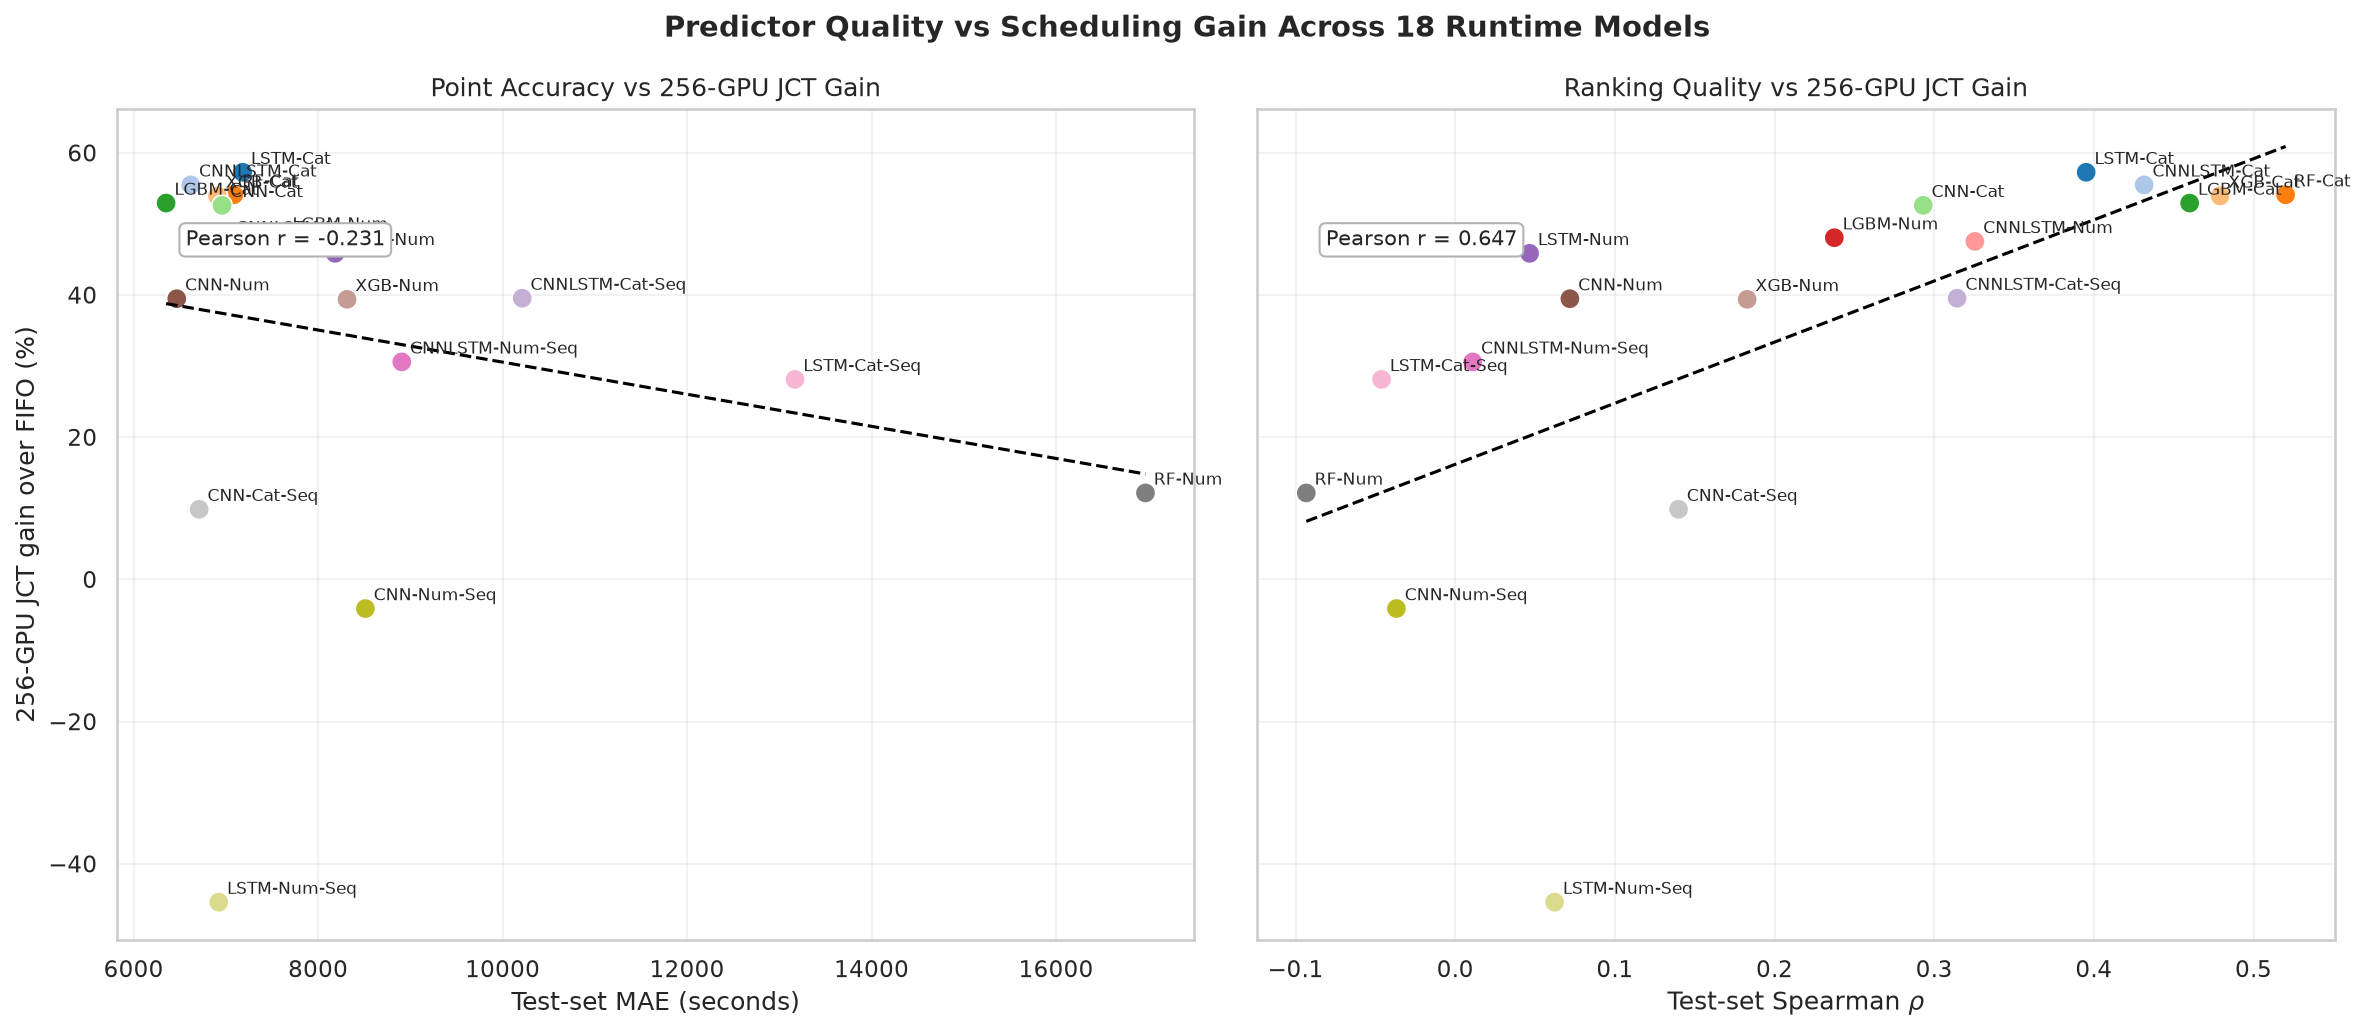
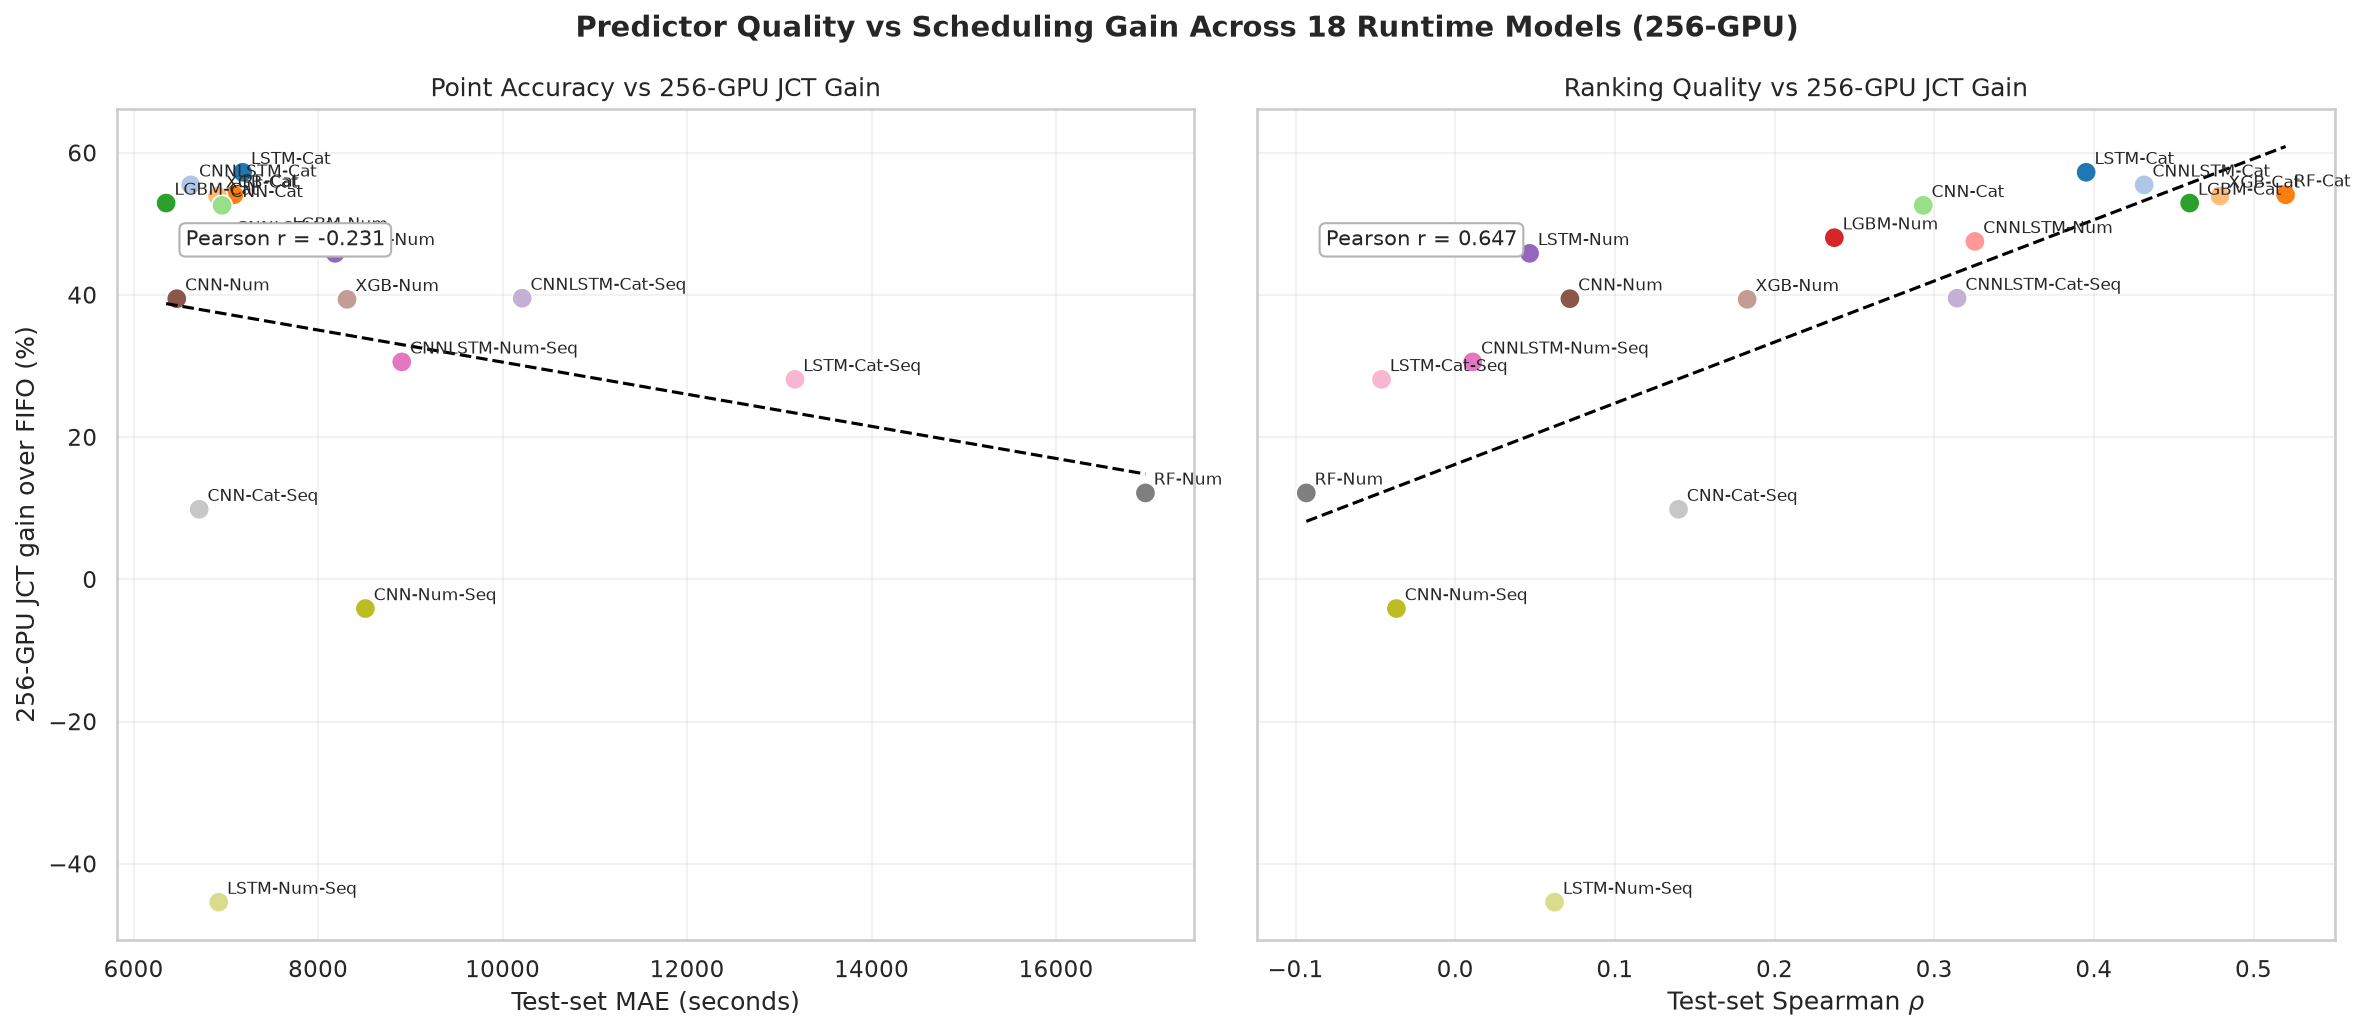
Add 32-GPU Spearman vs JCT gain figure generation

Changed region(s): [[0.2469, 0.0, 0.7717, 0.0621]]

diff --git a/scripts/generate_rank_correlation_figure.py b/scripts/generate_rank_correlation_figure.py
@@ -1,5 +1,5 @@
 #!/usr/bin/env python3
-"""Generate the MAE/Spearman vs 256-GPU JCT gain figure for all 18 predictors."""
+"""Generate the MAE/Spearman vs JCT gain figures for all 18 predictors (32-GPU and 256-GPU)."""
 
 from __future__ import annotations
 
@@ -304,12 +304,21 @@ def _build_analysis_frame() -> pd.DataFrame:
     return analysis_df
 
 
-def _draw_panel(ax: plt.Axes, df: pd.DataFrame, *, x_col: str, xlabel: str, title: str) -> None:
+def _draw_panel(
+    ax: plt.Axes,
+    df: pd.DataFrame,
+    *,
+    x_col: str,
+    xlabel: str,
+    title: str,
+    y_col: str = "jct_gain_256",
+    ylabel: str = "256-GPU JCT gain over FIFO (%)",
+) -> None:
     """Draw one scatter panel with fitted line and Pearson correlation text."""
     sns.scatterplot(
         data=df,
         x=x_col,
-        y="jct_gain_256",
+        y=y_col,
         hue="policy",
         palette="tab20",
         s=95,
@@ -317,23 +326,23 @@ def _draw_panel(ax: plt.Axes, df: pd.DataFrame, *, x_col: str, xlabel: str, titl
         ax=ax,
     )
 
-    slope, intercept = np.polyfit(df[x_col], df["jct_gain_256"], deg=1)
+    slope, intercept = np.polyfit(df[x_col], df[y_col], deg=1)
     x_values = np.linspace(df[x_col].min(), df[x_col].max(), 200)
     y_values = slope * x_values + intercept
-    corr_value, _ = pearsonr(df[x_col], df["jct_gain_256"])
+    corr_value, _ = pearsonr(df[x_col], df[y_col])
 
     ax.plot(x_values, y_values, color="black", linestyle="--", linewidth=1.5)
     ax.set_xlabel(xlabel)
-    ax.set_ylabel("256-GPU JCT gain over FIFO (%)")
+    ax.set_ylabel(ylabel)
     ax.set_title(title)
     ax.grid(alpha=0.25)
 
     x_span = df[x_col].max() - df[x_col].min()
-    y_span = df["jct_gain_256"].max() - df["jct_gain_256"].min()
+    y_span = df[y_col].max() - df[y_col].min()
     for row in df.itertuples(index=False):
         ax.annotate(
             row.model,
-            (getattr(row, x_col), row.jct_gain_256),
+            (getattr(row, x_col), getattr(row, y_col)),
             xytext=(4, 4),
             textcoords="offset points",
             fontsize=8,
@@ -341,47 +350,79 @@ def _draw_panel(ax: plt.Axes, df: pd.DataFrame, *, x_col: str, xlabel: str, titl
 
     ax.text(
         df[x_col].min() + 0.02 * x_span,
-        df["jct_gain_256"].max() - 0.10 * y_span,
+        df[y_col].max() - 0.10 * y_span,
         f"Pearson r = {corr_value:.3f}",
         fontsize=10,
         bbox={"facecolor": "white", "edgecolor": "0.7", "boxstyle": "round,pad=0.3"},
     )
 
 
-def main() -> None:
-    """Generate and save the requested figure."""
-    logging.basicConfig(level=logging.INFO, format="[%(levelname)s] %(message)s")
-    sns.set_theme(style="whitegrid")
-
-    paths = load_paths_config()
-    figures_dir = PROJECT_ROOT / paths["results"]["figures_dir"]
-    figures_dir.mkdir(parents=True, exist_ok=True)
-    output_path = figures_dir / "mae_spearman_vs_jct_gain_256gpu.png"
-
-    analysis_df = _build_analysis_frame()
-
+def _generate_figure(
+    analysis_df: pd.DataFrame,
+    *,
+    y_col: str,
+    ylabel: str,
+    gpu_label: str,
+    output_path: Path,
+) -> None:
+    """Generate and save a two-panel MAE/Spearman vs JCT gain figure."""
     fig, axes = plt.subplots(1, 2, figsize=(16, 7), sharey=True)
     _draw_panel(
         axes[0],
         analysis_df,
         x_col="mae",
         xlabel="Test-set MAE (seconds)",
-        title="Point Accuracy vs 256-GPU JCT Gain",
+        title=f"Point Accuracy vs {gpu_label} JCT Gain",
+        y_col=y_col,
+        ylabel=ylabel,
     )
     _draw_panel(
         axes[1],
         analysis_df,
         x_col="spearman_rho",
         xlabel="Test-set Spearman $\\rho$",
-        title="Ranking Quality vs 256-GPU JCT Gain",
+        title=f"Ranking Quality vs {gpu_label} JCT Gain",
+        y_col=y_col,
+        ylabel=ylabel,
     )
 
-    fig.suptitle("Predictor Quality vs Scheduling Gain Across 18 Runtime Models", fontsize=14, fontweight="bold")
+    fig.suptitle(
+        f"Predictor Quality vs Scheduling Gain Across 18 Runtime Models ({gpu_label})",
+        fontsize=14,
+        fontweight="bold",
+    )
     fig.tight_layout()
     fig.savefig(output_path, dpi=150, bbox_inches="tight")
     plt.close(fig)
-
     LOGGER.info("Saved figure to %s", output_path)
+
+
+def main() -> None:
+    """Generate and save both 256-GPU and 32-GPU rank-correlation figures."""
+    logging.basicConfig(level=logging.INFO, format="[%(levelname)s] %(message)s")
+    sns.set_theme(style="whitegrid")
+
+    paths = load_paths_config()
+    figures_dir = PROJECT_ROOT / paths["results"]["figures_dir"]
+    figures_dir.mkdir(parents=True, exist_ok=True)
+
+    analysis_df = _build_analysis_frame()
+
+    _generate_figure(
+        analysis_df,
+        y_col="jct_gain_256",
+        ylabel="256-GPU JCT gain over FIFO (%)",
+        gpu_label="256-GPU",
+        output_path=figures_dir / "mae_spearman_vs_jct_gain_256gpu.png",
+    )
+    _generate_figure(
+        analysis_df,
+        y_col="jct_gain_32",
+        ylabel="32-GPU JCT gain over FIFO (%)",
+        gpu_label="32-GPU",
+        output_path=figures_dir / "mae_spearman_vs_jct_gain_32gpu.png",
+    )
+
     LOGGER.info("\n%s", analysis_df[["model", "spearman_rho", "mae", "jct_gain_32", "jct_gain_256"]].to_string(index=False))
 
 
